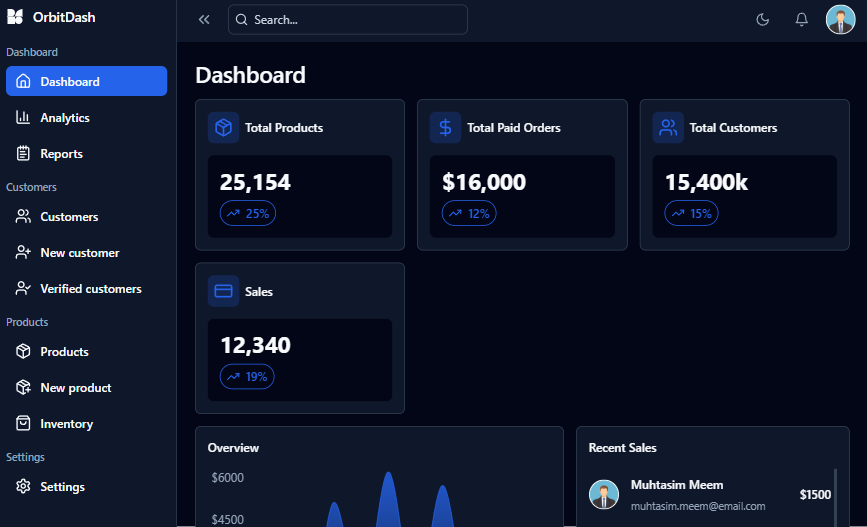
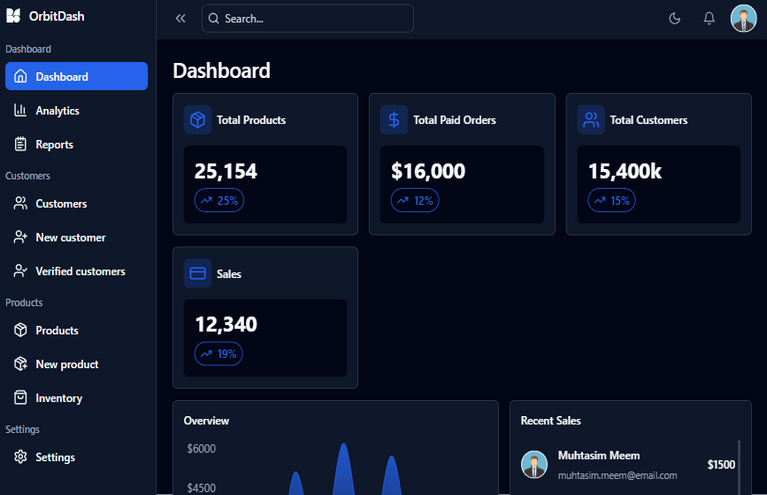
code update

diff --git a/app/components/header-section/Header.tsx b/app/components/header-section/Header.tsx
@@ -17,8 +17,8 @@ export default function Header() {
         <div className="flex justify-between items-center px-6 py-4 rounded-2xl bg-linear-to-r from-[#d9d9d91f] to-[#7373731f] mt-4 sm:mt-8 std-backdrop-blur">
           <Image
             src="/LOGO.png"
-            width={16}
-            height={20}
+            width={20}
+            height={26}
             alt="logo"
             className="select-none"
           />

diff --git a/app/components/work-section/FolioCard.tsx b/app/components/work-section/FolioCard.tsx
@@ -46,7 +46,10 @@ export default function FolioCard({
           img === "/chatapp2.png" ? "object-contain h-auto max-h-[320px]" : 
           img === "/x-clone.png" ? "object-contain h-auto max-h-[320px]" : 
           img === "/orebi.png" ? "object-contain h-auto max-h-[320px]" :
+
+          img === "/dashboard.png" ? "object-contain h-auto max-h-[320px]" :
           ""
+          
           
           
         }`}
